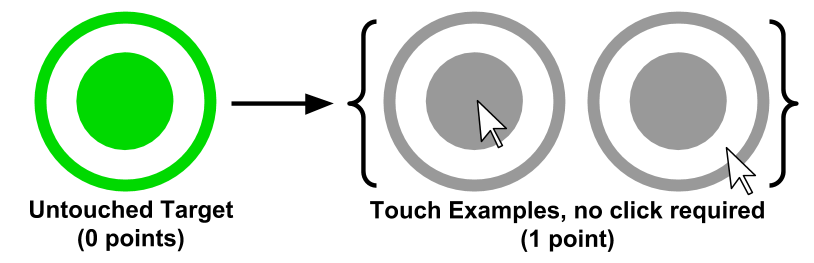
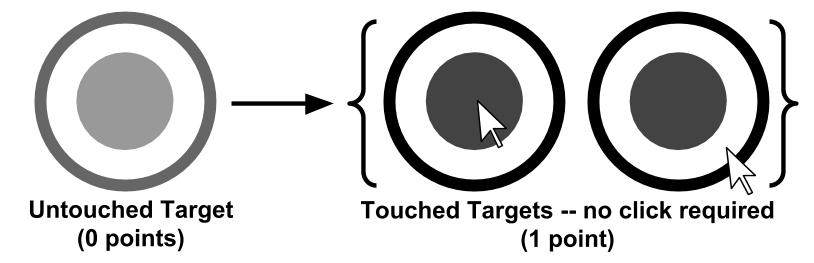
lots of reward testing and fixing

Changed region(s): [[0.4607, 0.0304, 0.9521, 0.73], [0.0307, 0.0304, 0.2764, 0.73], [0.43, 0.7605, 0.9521, 0.8517]]

diff --git a/code/experiment/dev/assets/canvas/targets.js b/code/experiment/dev/assets/canvas/targets.js
@@ -1,7 +1,7 @@
 var _renderer  = new TargetRenderer(0, .5, .5, 1000);
 
-var _prerender_n_touch = _renderer.prerender(_renderer.gradientRGB, _renderer.evenOpacity, _renderer.evenFill, _renderer.mediumStroke);
-var _prerender_y_touch = _renderer.prerender(_renderer.allBlack   , _renderer.evenOpacity, _renderer.evenFill, _renderer.mediumStroke);
+var _prerender_n_touch = _renderer.prerender(_renderer.allGray150, _renderer.allGray90, _renderer.evenFill, _renderer.mediumStroke, _renderer.evenOpacity);
+var _prerender_y_touch = _renderer.prerender(_renderer.allGray90 , _renderer.allBlack , _renderer.evenFill, _renderer.heavyStroke , _renderer.evenOpacity);
 
 function Targets(mouse, rewardId) {
     var radius     = 150;
@@ -105,33 +105,44 @@ function Target(mouse, rewardId) {
     };
 
     this.getReward = function(canvas) {
+		
+        var f_classes = self.getFeatures(canvas);		
 
-        var f_classes = self.getFeatures(canvas);
-
-		var cnt_index = [0,32,64,96];
+		//var cnt_index = [0,32,64,96];		
+		var lox_index = [0,96,192]
+		var loy_index = [0,32,64];
 		var dir_index = [0,4,8,12,16,20,24,28];
 		var age_index = [1,2,3,4];
 
-		var r_index = cnt_index[f_classes[0]-1] + dir_index[f_classes[1]-1] + age_index[f_classes[2]-1] + 1;
+		//var r_index = cnt_index[f_classes[0]-1] + dir_index[f_classes[1]-1] + age_index[f_classes[2]-1] + 1;
+		var r_index = lox_index[f_classes[0]-1] + loy_index[f_classes[1]-1] + dir_index[f_classes[2]-1] + age_index[f_classes[3]-1];
 
-		var rewards = [0.42,0.5,0.81,0.64,0.5,0.29,0.67,0.45,0.17,0.24,0.62,0.2,0.23,0.23,0.39,0.14,0.17,0.25,0.35,0.16,0.2,0.24,0.3,0.34,0.14,0.21,0.37,0.12,0.14,0.24,0.3,0.24,0.36,0.63,1,0.78,0.28,0.32,0.63,0.5,0.61,0.31,0.42,0.36,0.5,0.28,0.55,0.35,0.25,0.24,0.37,0.19,0.23,0.23,0.32,0.25,0.13,0.17,0.41,0.11,0,0.24,0.39,0.18,0.13,0.43,0.55,0.46,0.39,0.35,0.47,0.38,0.35,0.32,0.42,0.33,0.33,0.31,0.4,0.31,0.29,0.29,0.37,0.29,0.28,0.29,0.36,0.31,0.26,0.27,0.36,0.27,0.24,0.29,0.37,0.3,0.28,0.43,0.55,0.46,0.39,0.35,0.47,0.38,0.35,0.32,0.42,0.33,0.33,0.31,0.4,0.31,0.29,0.29,0.37,0.29,0.28,0.29,0.36,0.31,0.26,0.27,0.36,0.27,0.24,0.29,0.37,0.3,0.28];
-
+		//var rewards = [0.29,0.38,0.75,0.62,0.53,0.19,0.53,0.38,0.1,0.23,0.74,0.2,0.21,0.21,0.35,0.07,0.1,0.17,0.21,0.28,0.01,0.13,0.34,0.14,0.03,0.22,0.3,0.34,0.46,0.51,0.68,0.44,0.26,0.52,0.65,0.57,0.24,0.25,0.56,0.49,0.57,0.35,0.49,0.54,0.52,0.3,0.6,0.48,0.34,0.2,0.16,0.15,0,0.24,0.41,0.25,0.09,0.23,0.38,0.02,0.02,0.63,1,0.89,0.34,0.39,0.49,0.43,0.36,0.32,0.43,0.37,0.32,0.33,0.45,0.37,0.33,0.31,0.41,0.33,0.28,0.26,0.32,0.28,0.21,0.27,0.37,0.29,0.23,0.29,0.37,0.3,0.27,0.42,0.53,0.46,0.36,0.39,0.49,0.43,0.36,0.32,0.43,0.37,0.32,0.33,0.45,0.37,0.33,0.31,0.41,0.33,0.28,0.26,0.32,0.29,0.21,0.27,0.37,0.29,0.24,0.29,0.37,0.3,0.27,0.42,0.53,0.46,0.36];
+		//var rewards = [0.34,0.38,0.59,0.47,0.35,0.36,0.52,0.35,0.29,0.35,0.5,0.4,0.34,0.3,0.45,0.37,0.15,0.28,0.42,0.33,0.21,0.29,0.47,0.41,0.31,0.28,0.43,0.3,0.23,0.43,1,0.78,0.34,0.28,0.4,0.4,0.25,0.31,0.46,0.33,0.49,0.28,0.43,0.3,0.42,0.23,0.51,0.39,0.21,0.15,0.28,0.06,0.02,0.23,0.45,0.25,0.2,0.19,0.32,0,0.17,0.31,0.46,0.34,0.24,0.39,0.48,0.41,0.39,0.41,0.69,0.45,0.36,0.38,0.5,0.65,0.49,0.32,0.34,0.34,0.4,0.29,0.37,0.3,0.23,0.31,0.42,0.35,0.25,0.31,0.37,0.31,0.3,0.53,0.46,0.32,0.36,0.35,0.51,0.69,0.36,0.32,0.47,0.38,0.3,0.3,0.45,0.36,0.29,0.25,0.37,0.3,0.21,0.23,0.36,0.3,0.21,0.23,0.39,0.32,0.24,0.23,0.36,0.38,0.09,0.32,0.5,0.42,0.3,0.27,0.62,0.31,0.23,0.26,0.41,0.24,0.21,0.22,0.51,0.09,0.23,0.13,0.32,0.12,0.11,0.14,0.21,0.18,0.11,0.17,0.32,0.09,0.12,0.19,0.21,0.14,0.45,0.22,0.5,0.16,0.19,0.38,0.52,0.28,0.66,0.39,0.79,0.62,0.4,0.31,0.64,0.35,0.33,0.23,0.37,0.12,0.24,0.26,0.38,0.19,0.26,0.28,0.41,0.28,0.23,0.28,0.4,0.29,0.3,0.34,0.47,0.33,0.32,0.36,0.43,0.44,0.33,0.34,0.42,0.38,0.33,0.29,0.37,0.34,0.28,0.26,0.34,0.32,0.23,0.26,0.32,0.3,0.22,0.28,0.35,0.33,0.25,0.28,0.34,0.32,0.25,0.37,0.46,0.44,0.32,0.3,0.37,0.54,0.25,0.32,0.38,0.31,0.57,0.23,0.31,0.22,0.24,0.23,0.29,0.26,0.2,0.19,0.13,0.19,0.06,0.23,0.28,0.19,0.15,0.23,0.27,0.23,0.24,0.46,0.27,0.48,0.28,0.46,0.4,0.39,0.33,0.36,0.41,0.48,0.34,0.26,0.26,0.33,0.21,0.21,0.29,0.27,0.12,0.25,0.28,0.25,0.2,0.28,0.32,0.29,0.23,0.28,0.32,0.3,0.25,0.36,0.38,0.36,0.3];
+		var rewards = [0.2,0.51,1,0.71,0.44,0.38,0.72,0.58,0.39,0.43,0.7,0.59,0.39,0.38,0.69,0.56,0.36,0.31,0.56,0.4,0.21,0.38,0.68,0.72,0.54,0.32,0.58,0.49,0,0.55,1,1,0.25,0.33,0.62,0.61,0.24,0.28,0.45,0.29,0.53,0.25,0.52,0.25,0.26,0.25,0.74,0.53,0.24,0.07,0.32,0,0,0.22,0.59,0.25,0.09,0.19,0.41,0.11,0.11,0.32,0.6,0.25,0.2,0.47,0.65,0.55,0.44,0.42,0.89,0.52,0.32,0.44,0.64,0.88,0.64,0.37,0.55,0.44,0.58,0.27,0.28,0.32,0.21,0.33,0.51,0.41,0.1,0.34,0.47,0.39,0.27,0.66,0.58,0.35,0.35,0.45,0.71,1,0.42,0.35,0.61,0.51,0.3,0.32,0.57,0.43,0.25,0.28,0.5,0.39,0.22,0.26,0.46,0.4,0.19,0.25,0.48,0.41,0.19,0.31,0.5,0.59,0.24,0.34,0.61,0.44,0.12,0.28,0.86,0.39,0.15,0.19,0.52,0.27,0.12,0.14,0.71,0,0.09,0.1,0.41,0.08,0,0.06,0.35,0.32,0,0.03,0.37,0.08,0.05,0.18,0.26,0.04,0.61,0.19,0.69,0.12,0.14,0.41,0.63,0.27,0.76,0.32,1,0.72,0.18,0.23,0.8,0.27,0,0.2,0.44,0,0.05,0.19,0.4,0.2,0.11,0.21,0.46,0.26,0.14,0.27,0.48,0.3,0.25,0.31,0.55,0.32,0.19,0.45,0.6,0.6,0.38,0.35,0.52,0.47,0.32,0.34,0.49,0.43,0.28,0.32,0.47,0.41,0.25,0.28,0.39,0.37,0.2,0.31,0.45,0.42,0.24,0.32,0.45,0.42,0.24,0.43,0.61,0.54,0.3,0.33,0.53,0.77,0.3,0.29,0.45,0.3,0.68,0.24,0.39,0.22,0.2,0.23,0.39,0.27,0.16,0.15,0.12,0.19,0,0.2,0.35,0.27,0.04,0.24,0.35,0.29,0.21,0.57,0.5,0.63,0.18,0.59,0.51,0.46,0.3,0.18,0.42,0.47,0.04,0.29,0.35,0.35,0.18,0.25,0.36,0.27,0,0.22,0.28,0.25,0.09,0.23,0.33,0.23,0,0.27,0.36,0.31,0.16,0.38,0.45,0.38,0.2];
+		
         return rewards[r_index];
     };
 
     this.getFeatures = function (canvas) {
 
-		var centerX = canvas.getResolution(0)/2;
-		var centerY = canvas.getResolution(1)/2;
+		var width  = canvas.getResolution(0);
+		var height = canvas.getResolution(1);
 
-		var cnt_distance = dist(effectiveX, effectiveY, centerX, centerY);
-		var cnt_class    = cnt_distance <= 400 ? 1 : cnt_distance <= 900 ? 2 : cnt_distance <= 1500 ? 3 : 4;
+		var lox_class = effectiveX <= 1/3 * width  ? 1 : effectiveX <= 2/3 * width  ? 2 : 3;
+		var loy_class = effectiveY <= 1/3 * height ? 1 : effectiveY <= 2/3 * height ? 2 : 3;
 
+		//var centerX = canvas.getResolution(0)/2;
+		//var centerY = canvas.getResolution(1)/2;
+
+		//var cnt_distance = dist(effectiveX, effectiveY, centerX, centerY);
+		//var cnt_class    = cnt_distance <= 400 ? 1 : cnt_distance <= 900 ? 2 : cnt_distance <= 1500 ? 3 : 4;		
+		
 		var mouseX = mouse.getX();
         var mouseY = mouse.getY();
 
 		var dir_radian = Math.atan2(effectiveY - mouseY, effectiveX - mouseX);
-		var dir_class  = Math.floor( (dir_radian + 3*Math.PI/8) / (Math.PI/4));
+		var dir_class  = Math.floor( (dir_radian + 3*Math.PI/8) / (Math.PI/4) );
 
 		if(dir_class <= 0) {
 			dir_class += 8;
@@ -140,7 +151,7 @@ function Target(mouse, rewardId) {
 		var age_value = self.getAge();
 		var age_class = age_value <= 250 ? 1 : age_value <= 500 ? 2 : age_value <= 750 ? 3 : 4;
 
-		return [cnt_class, dir_class, age_class];
+		return [lox_class, loy_class, dir_class, age_class];
     };
 
     this.draw = function(canvas, r) {
@@ -157,7 +168,7 @@ function Target(mouse, rewardId) {
 
         var context = canvas.getContext2d();
 
-        var xOffset = _renderer.xOffset(self.getReward(canvas));
+        var xOffset = _renderer.xOffset(self.getReward(canvas), 0, 1);
         var yOffset = _renderer.yOffset(self.getAge());
 
 		if(self.isTouched()) {
@@ -231,7 +242,11 @@ function TargetRenderer(fadeInTime, fadeOffTime, fadeOutTime, lifespan) {
 		return "0,0,0";
 	}
 
-	this.allGray = function(rewStep) {
+	this.allGray90 = function(rewStep) {
+		return "90,90,90";
+	}
+	
+	this.allGray150 = function(rewStep) {
 		return "150,150,150";
 	}
 
@@ -239,11 +254,15 @@ function TargetRenderer(fadeInTime, fadeOffTime, fadeOutTime, lifespan) {
 		return 10;
 	}
 	
+	this.heavyStroke = function(rewStep) {
+		return 12;
+	}
+	
 	this.evenFill = function(rewStep) {
 		return rewStep/rewSteps * target_radius;
 	}
 	
-	this.prerender = function(color, opacity, fill, stroke) {
+	this.prerender = function(fill_color, line_color, fill_radius, stroke_width, opacity) {
 
         var canvas = document.createElement("canvas");
 
@@ -252,44 +271,42 @@ function TargetRenderer(fadeInTime, fadeOffTime, fadeOutTime, lifespan) {
 
 		var context = canvas.getContext("2d");
 
-        for(var rewStep = 0; rewStep < rewSteps; rewStep++) {
+		for(var rewStep = 0; rewStep < rewSteps; rewStep++) {
             for(var ageStep = 0; ageStep < ageSteps; ageStep++) {
 				
 				var xOffset = rewStep * width  + target_radius;
                 var yOffset = ageStep * height + target_radius;
                 			
-				var center_radius = fill(rewStep);
-				var stroke_weight = stroke(rewStep);
-				var stroke_begins = target_radius - stroke_weight;
+				var center_radius = fill_radius(rewStep);
+				var stroke_weight = stroke_width(rewStep);
+				var stroke_begins = target_radius-(stroke_weight/2);
 				
-				var style = "rgba(" + color(rewStep) + "," + opacity(ageStep) + ")";
-				
-				if ( center_radius < stroke_begins ) {
-					context.beginPath();
-					context.lineWidth = stroke_weight;
-					context.strokeStyle = style;
-					context.arc(xOffset, yOffset, stroke_begins, 0, 2 * Math.PI);
-					context.stroke();
+				var fill_style = "rgba(" + fill_color(rewStep) + "," + opacity(ageStep) + ")";
+				var line_style = "rgba(" + line_color(rewStep) + "," + opacity(ageStep) + ")";
 
-					context.beginPath();
-					context.fillStyle = style;
-					context.arc(xOffset, yOffset, center_radius, 0, 2 * Math.PI);
-					context.fill();
-				}
-				else {
-					context.beginPath();
-					context.fillStyle = style;
-					context.arc(xOffset, yOffset, target_radius, 0, 2 * Math.PI);
-					context.fill();
-				}
+				context.beginPath();
+				context.fillStyle = "rgb(255,255,255)";
+				context.arc(xOffset, yOffset, target_radius, 0, 2 * Math.PI);
+				context.fill();
+				
+				context.beginPath();
+				context.fillStyle = fill_style;
+				context.arc(xOffset, yOffset, center_radius, 0, 2 * Math.PI);
+				context.fill();
+				
+				context.beginPath();
+				context.lineWidth = stroke_weight;
+				context.strokeStyle = line_style;
+				context.arc(xOffset, yOffset, stroke_begins, 0, 2 * Math.PI);
+				context.stroke();
 			}
         }
         
         return canvas;
     }
 	
-    this.xOffset = function (reward) {
-		return 200 * Math.round((reward+1)/2 * (rewSteps-1));
+    this.xOffset = function (reward, min, max) {
+		return 200 * Math.round((reward-min)/(max-min) * (rewSteps-1));
     }
     
     this.yOffset = function(age) {

diff --git a/code/misc/targets/assets/canvas/targets.js b/code/misc/targets/assets/canvas/targets.js
@@ -1,7 +1,7 @@
 var _renderer  = new TargetRenderer(0, .5, .5, 1000);
 
-var _prerender_n_touch = _renderer.prerender(_renderer.gradientRGB, _renderer.evenOpacity, _renderer.evenFill, _renderer.mediumStroke);
-var _prerender_y_touch = _renderer.prerender(_renderer.allBlack   , _renderer.evenOpacity, _renderer.evenFill, _renderer.mediumStroke);
+var _prerender_n_touch = _renderer.prerender(_renderer.allGray150, _renderer.allGray90, _renderer.evenFill, _renderer.mediumStroke, _renderer.evenOpacity);
+var _prerender_y_touch = _renderer.prerender(_renderer.allGray90 , _renderer.allBlack , _renderer.evenFill, _renderer.heavyStroke , _renderer.evenOpacity);
 
 function Target(mouse, x_pct, y_pct, effectiveR, age) {
     
@@ -18,7 +18,7 @@ function Target(mouse, x_pct, y_pct, effectiveR, age) {
     this.getR   = function() { return effectiveR; };
     this.getX   = function() { return effectiveX; };
     this.getY   = function() { return effectiveY; };
-    this.getAge = function() { return age || (Date.now() - createTime); };
+    this.getAge = function() { return (Date.now() - createTime) % 1000; };
 
     this.getData     = function() { 
         return [
@@ -63,11 +63,12 @@ function Target(mouse, x_pct, y_pct, effectiveR, age) {
 		var age_index = [1,2,3,4];
 
 		//var r_index = cnt_index[f_classes[0]-1] + dir_index[f_classes[1]-1] + age_index[f_classes[2]-1] + 1;
-		var r_index = lox_index[f_classes[0]-1] + loy_index[f_classes[1]-1] + dir_index[f_classes[2]-1] + age_index[f_classes[3]-1] + 1;
+		var r_index = lox_index[f_classes[0]-1] + loy_index[f_classes[1]-1] + dir_index[f_classes[2]-1] + age_index[f_classes[3]-1];
 
 		//var rewards = [0.29,0.38,0.75,0.62,0.53,0.19,0.53,0.38,0.1,0.23,0.74,0.2,0.21,0.21,0.35,0.07,0.1,0.17,0.21,0.28,0.01,0.13,0.34,0.14,0.03,0.22,0.3,0.34,0.46,0.51,0.68,0.44,0.26,0.52,0.65,0.57,0.24,0.25,0.56,0.49,0.57,0.35,0.49,0.54,0.52,0.3,0.6,0.48,0.34,0.2,0.16,0.15,0,0.24,0.41,0.25,0.09,0.23,0.38,0.02,0.02,0.63,1,0.89,0.34,0.39,0.49,0.43,0.36,0.32,0.43,0.37,0.32,0.33,0.45,0.37,0.33,0.31,0.41,0.33,0.28,0.26,0.32,0.28,0.21,0.27,0.37,0.29,0.23,0.29,0.37,0.3,0.27,0.42,0.53,0.46,0.36,0.39,0.49,0.43,0.36,0.32,0.43,0.37,0.32,0.33,0.45,0.37,0.33,0.31,0.41,0.33,0.28,0.26,0.32,0.29,0.21,0.27,0.37,0.29,0.24,0.29,0.37,0.3,0.27,0.42,0.53,0.46,0.36];
-		var rewards = [0.34,0.38,0.59,0.47,0.35,0.36,0.52,0.35,0.29,0.35,0.5,0.4,0.34,0.3,0.45,0.37,0.15,0.28,0.42,0.33,0.21,0.29,0.47,0.41,0.31,0.28,0.43,0.3,0.23,0.43,1,0.78,0.34,0.28,0.4,0.4,0.25,0.31,0.46,0.33,0.49,0.28,0.43,0.3,0.42,0.23,0.51,0.39,0.21,0.15,0.28,0.06,0.02,0.23,0.45,0.25,0.2,0.19,0.32,0,0.17,0.31,0.46,0.34,0.24,0.39,0.48,0.41,0.39,0.41,0.69,0.45,0.36,0.38,0.5,0.65,0.49,0.32,0.34,0.34,0.4,0.29,0.37,0.3,0.23,0.31,0.42,0.35,0.25,0.31,0.37,0.31,0.3,0.53,0.46,0.32,0.36,0.35,0.51,0.69,0.36,0.32,0.47,0.38,0.3,0.3,0.45,0.36,0.29,0.25,0.37,0.3,0.21,0.23,0.36,0.3,0.21,0.23,0.39,0.32,0.24,0.23,0.36,0.38,0.09,0.32,0.5,0.42,0.3,0.27,0.62,0.31,0.23,0.26,0.41,0.24,0.21,0.22,0.51,0.09,0.23,0.13,0.32,0.12,0.11,0.14,0.21,0.18,0.11,0.17,0.32,0.09,0.12,0.19,0.21,0.14,0.45,0.22,0.5,0.16,0.19,0.38,0.52,0.28,0.66,0.39,0.79,0.62,0.4,0.31,0.64,0.35,0.33,0.23,0.37,0.12,0.24,0.26,0.38,0.19,0.26,0.28,0.41,0.28,0.23,0.28,0.4,0.29,0.3,0.34,0.47,0.33,0.32,0.36,0.43,0.44,0.33,0.34,0.42,0.38,0.33,0.29,0.37,0.34,0.28,0.26,0.34,0.32,0.23,0.26,0.32,0.3,0.22,0.28,0.35,0.33,0.25,0.28,0.34,0.32,0.25,0.37,0.46,0.44,0.32,0.3,0.37,0.54,0.25,0.32,0.38,0.31,0.57,0.23,0.31,0.22,0.24,0.23,0.29,0.26,0.2,0.19,0.13,0.19,0.06,0.23,0.28,0.19,0.15,0.23,0.27,0.23,0.24,0.46,0.27,0.48,0.28,0.46,0.4,0.39,0.33,0.36,0.41,0.48,0.34,0.26,0.26,0.33,0.21,0.21,0.29,0.27,0.12,0.25,0.28,0.25,0.2,0.28,0.32,0.29,0.23,0.28,0.32,0.3,0.25,0.36,0.38,0.36,0.3];
-		
+		//var rewards = [0.34,0.38,0.59,0.47,0.35,0.36,0.52,0.35,0.29,0.35,0.5,0.4,0.34,0.3,0.45,0.37,0.15,0.28,0.42,0.33,0.21,0.29,0.47,0.41,0.31,0.28,0.43,0.3,0.23,0.43,1,0.78,0.34,0.28,0.4,0.4,0.25,0.31,0.46,0.33,0.49,0.28,0.43,0.3,0.42,0.23,0.51,0.39,0.21,0.15,0.28,0.06,0.02,0.23,0.45,0.25,0.2,0.19,0.32,0,0.17,0.31,0.46,0.34,0.24,0.39,0.48,0.41,0.39,0.41,0.69,0.45,0.36,0.38,0.5,0.65,0.49,0.32,0.34,0.34,0.4,0.29,0.37,0.3,0.23,0.31,0.42,0.35,0.25,0.31,0.37,0.31,0.3,0.53,0.46,0.32,0.36,0.35,0.51,0.69,0.36,0.32,0.47,0.38,0.3,0.3,0.45,0.36,0.29,0.25,0.37,0.3,0.21,0.23,0.36,0.3,0.21,0.23,0.39,0.32,0.24,0.23,0.36,0.38,0.09,0.32,0.5,0.42,0.3,0.27,0.62,0.31,0.23,0.26,0.41,0.24,0.21,0.22,0.51,0.09,0.23,0.13,0.32,0.12,0.11,0.14,0.21,0.18,0.11,0.17,0.32,0.09,0.12,0.19,0.21,0.14,0.45,0.22,0.5,0.16,0.19,0.38,0.52,0.28,0.66,0.39,0.79,0.62,0.4,0.31,0.64,0.35,0.33,0.23,0.37,0.12,0.24,0.26,0.38,0.19,0.26,0.28,0.41,0.28,0.23,0.28,0.4,0.29,0.3,0.34,0.47,0.33,0.32,0.36,0.43,0.44,0.33,0.34,0.42,0.38,0.33,0.29,0.37,0.34,0.28,0.26,0.34,0.32,0.23,0.26,0.32,0.3,0.22,0.28,0.35,0.33,0.25,0.28,0.34,0.32,0.25,0.37,0.46,0.44,0.32,0.3,0.37,0.54,0.25,0.32,0.38,0.31,0.57,0.23,0.31,0.22,0.24,0.23,0.29,0.26,0.2,0.19,0.13,0.19,0.06,0.23,0.28,0.19,0.15,0.23,0.27,0.23,0.24,0.46,0.27,0.48,0.28,0.46,0.4,0.39,0.33,0.36,0.41,0.48,0.34,0.26,0.26,0.33,0.21,0.21,0.29,0.27,0.12,0.25,0.28,0.25,0.2,0.28,0.32,0.29,0.23,0.28,0.32,0.3,0.25,0.36,0.38,0.36,0.3];
+		var rewards = [0.2,0.51,1,0.71,0.44,0.38,0.72,0.58,0.39,0.43,0.7,0.59,0.39,0.38,0.69,0.56,0.36,0.31,0.56,0.4,0.21,0.38,0.68,0.72,0.54,0.32,0.58,0.49,0,0.55,1,1,0.25,0.33,0.62,0.61,0.24,0.28,0.45,0.29,0.53,0.25,0.52,0.25,0.26,0.25,0.74,0.53,0.24,0.07,0.32,0,0,0.22,0.59,0.25,0.09,0.19,0.41,0.11,0.11,0.32,0.6,0.25,0.2,0.47,0.65,0.55,0.44,0.42,0.89,0.52,0.32,0.44,0.64,0.88,0.64,0.37,0.55,0.44,0.58,0.27,0.28,0.32,0.21,0.33,0.51,0.41,0.1,0.34,0.47,0.39,0.27,0.66,0.58,0.35,0.35,0.45,0.71,1,0.42,0.35,0.61,0.51,0.3,0.32,0.57,0.43,0.25,0.28,0.5,0.39,0.22,0.26,0.46,0.4,0.19,0.25,0.48,0.41,0.19,0.31,0.5,0.59,0.24,0.34,0.61,0.44,0.12,0.28,0.86,0.39,0.15,0.19,0.52,0.27,0.12,0.14,0.71,0,0.09,0.1,0.41,0.08,0,0.06,0.35,0.32,0,0.03,0.37,0.08,0.05,0.18,0.26,0.04,0.61,0.19,0.69,0.12,0.14,0.41,0.63,0.27,0.76,0.32,1,0.72,0.18,0.23,0.8,0.27,0,0.2,0.44,0,0.05,0.19,0.4,0.2,0.11,0.21,0.46,0.26,0.14,0.27,0.48,0.3,0.25,0.31,0.55,0.32,0.19,0.45,0.6,0.6,0.38,0.35,0.52,0.47,0.32,0.34,0.49,0.43,0.28,0.32,0.47,0.41,0.25,0.28,0.39,0.37,0.2,0.31,0.45,0.42,0.24,0.32,0.45,0.42,0.24,0.43,0.61,0.54,0.3,0.33,0.53,0.77,0.3,0.29,0.45,0.3,0.68,0.24,0.39,0.22,0.2,0.23,0.39,0.27,0.16,0.15,0.12,0.19,0,0.2,0.35,0.27,0.04,0.24,0.35,0.29,0.21,0.57,0.5,0.63,0.18,0.59,0.51,0.46,0.3,0.18,0.42,0.47,0.04,0.29,0.35,0.35,0.18,0.25,0.36,0.27,0,0.22,0.28,0.25,0.09,0.23,0.33,0.23,0,0.27,0.36,0.31,0.16,0.38,0.45,0.38,0.2];
+
         return rewards[r_index];
     };
     
@@ -104,7 +105,7 @@ function Target(mouse, x_pct, y_pct, effectiveR, age) {
 
         var context = canvas.getContext2d();
 
-        var xOffset = _renderer.xOffset(self.getReward(canvas));
+        var xOffset = _renderer.xOffset(self.getReward(canvas), 0, 1);
         var yOffset = _renderer.yOffset(self.getAge());
 
 		if(self.isTouched()) {
@@ -178,7 +179,11 @@ function TargetRenderer(fadeInTime, fadeOffTime, fadeOutTime, lifespan) {
 		return "0,0,0";
 	}
 
-	this.allGray = function(rewStep) {
+	this.allGray90 = function(rewStep) {
+		return "90,90,90";
+	}
+	
+	this.allGray150 = function(rewStep) {
 		return "150,150,150";
 	}
 
@@ -186,11 +191,15 @@ function TargetRenderer(fadeInTime, fadeOffTime, fadeOutTime, lifespan) {
 		return 10;
 	}
 	
+	this.heavyStroke = function(rewStep) {
+		return 12;
+	}
+	
 	this.evenFill = function(rewStep) {
 		return rewStep/rewSteps * target_radius;
 	}
 	
-	this.prerender = function(color, opacity, fill, stroke) {
+	this.prerender = function(fill_color, line_color, fill_radius, stroke_width, opacity) {
 
         var canvas = document.createElement("canvas");
 
@@ -205,38 +214,36 @@ function TargetRenderer(fadeInTime, fadeOffTime, fadeOutTime, lifespan) {
 				var xOffset = rewStep * width  + target_radius;
                 var yOffset = ageStep * height + target_radius;
                 			
-				var center_radius = fill(rewStep);
-				var stroke_weight = stroke(rewStep);
-				var stroke_begins = target_radius - stroke_weight;
+				var center_radius = fill_radius(rewStep);
+				var stroke_weight = stroke_width(rewStep);
+				var stroke_begins = target_radius-(stroke_weight/2);
 				
-				var style = "rgba(" + color(rewStep) + "," + opacity(ageStep) + ")";
-				
-				if ( center_radius < stroke_begins ) {
-					context.beginPath();
-					context.lineWidth = stroke_weight;
-					context.strokeStyle = style;
-					context.arc(xOffset, yOffset, stroke_begins, 0, 2 * Math.PI);
-					context.stroke();
+				var fill_style = "rgba(" + fill_color(rewStep) + "," + opacity(ageStep) + ")";
+				var line_style = "rgba(" + line_color(rewStep) + "," + opacity(ageStep) + ")";
 
-					context.beginPath();
-					context.fillStyle = style;
-					context.arc(xOffset, yOffset, center_radius, 0, 2 * Math.PI);
-					context.fill();
-				}
-				else {
-					context.beginPath();
-					context.fillStyle = style;
-					context.arc(xOffset, yOffset, target_radius, 0, 2 * Math.PI);
-					context.fill();
-				}
+				context.beginPath();
+				context.fillStyle = "rgb(255,255,255)";
+				context.arc(xOffset, yOffset, target_radius, 0, 2 * Math.PI);
+				context.fill();
+				
+				context.beginPath();
+				context.fillStyle = fill_style;
+				context.arc(xOffset, yOffset, center_radius, 0, 2 * Math.PI);
+				context.fill();
+				
+				context.beginPath();
+				context.lineWidth = stroke_weight;
+				context.strokeStyle = line_style;
+				context.arc(xOffset, yOffset, stroke_begins, 0, 2 * Math.PI);
+				context.stroke();
 			}
         }
-        
+
         return canvas;
     }
 	
-    this.xOffset = function (reward) {
-		return 200 * Math.round((reward+1)/2 * (rewSteps-1));
+    this.xOffset = function (reward, min, max) {
+		return 200 * Math.round((reward-min)/(max-min) * (rewSteps-1));
     }
     
     this.yOffset = function(age) {

diff --git a/code/misc/targets/assets/index.js b/code/misc/targets/assets/index.js
@@ -16,7 +16,7 @@ $(document).ready( function () {
 		
 	for(x = 1; x <= xs; x++) {
 		for(y = 1; y <= ys; y++) {
-			targets.push(new Target(mouse, x/(xs+1), y/(ys+1), 100, 100))
+			targets.push(new Target(mouse, x/(xs+1), y/(ys+1), 100, 900))
 		}
 	}
 	

diff --git a/code/algorithm/main.m b/code/algorithm/main.m
@@ -21,4 +21,19 @@ end
 params     = struct ('epsilon',.0001, 'gamma',.9, 'seed',0, 'kernel', 5);
 result     = algorithm4run(trajectory_episodes, params, 1);
 
-jsonencode(round(result',2));
+sorted_result = sort(result);
+
+lower = sorted_result(10);
+upper = sorted_result(end-9);
+
+epsilon_result = result;
+
+epsilon_result(result < lower) = lower;
+epsilon_result(result > upper) = upper;
+
+min_result = min(epsilon_result);
+max_result = max(epsilon_result);
+
+normal_epsilon_result = round((epsilon_result - min_result)/(max_result-min_result),2);
+
+jsonencode(normal_epsilon_result)
